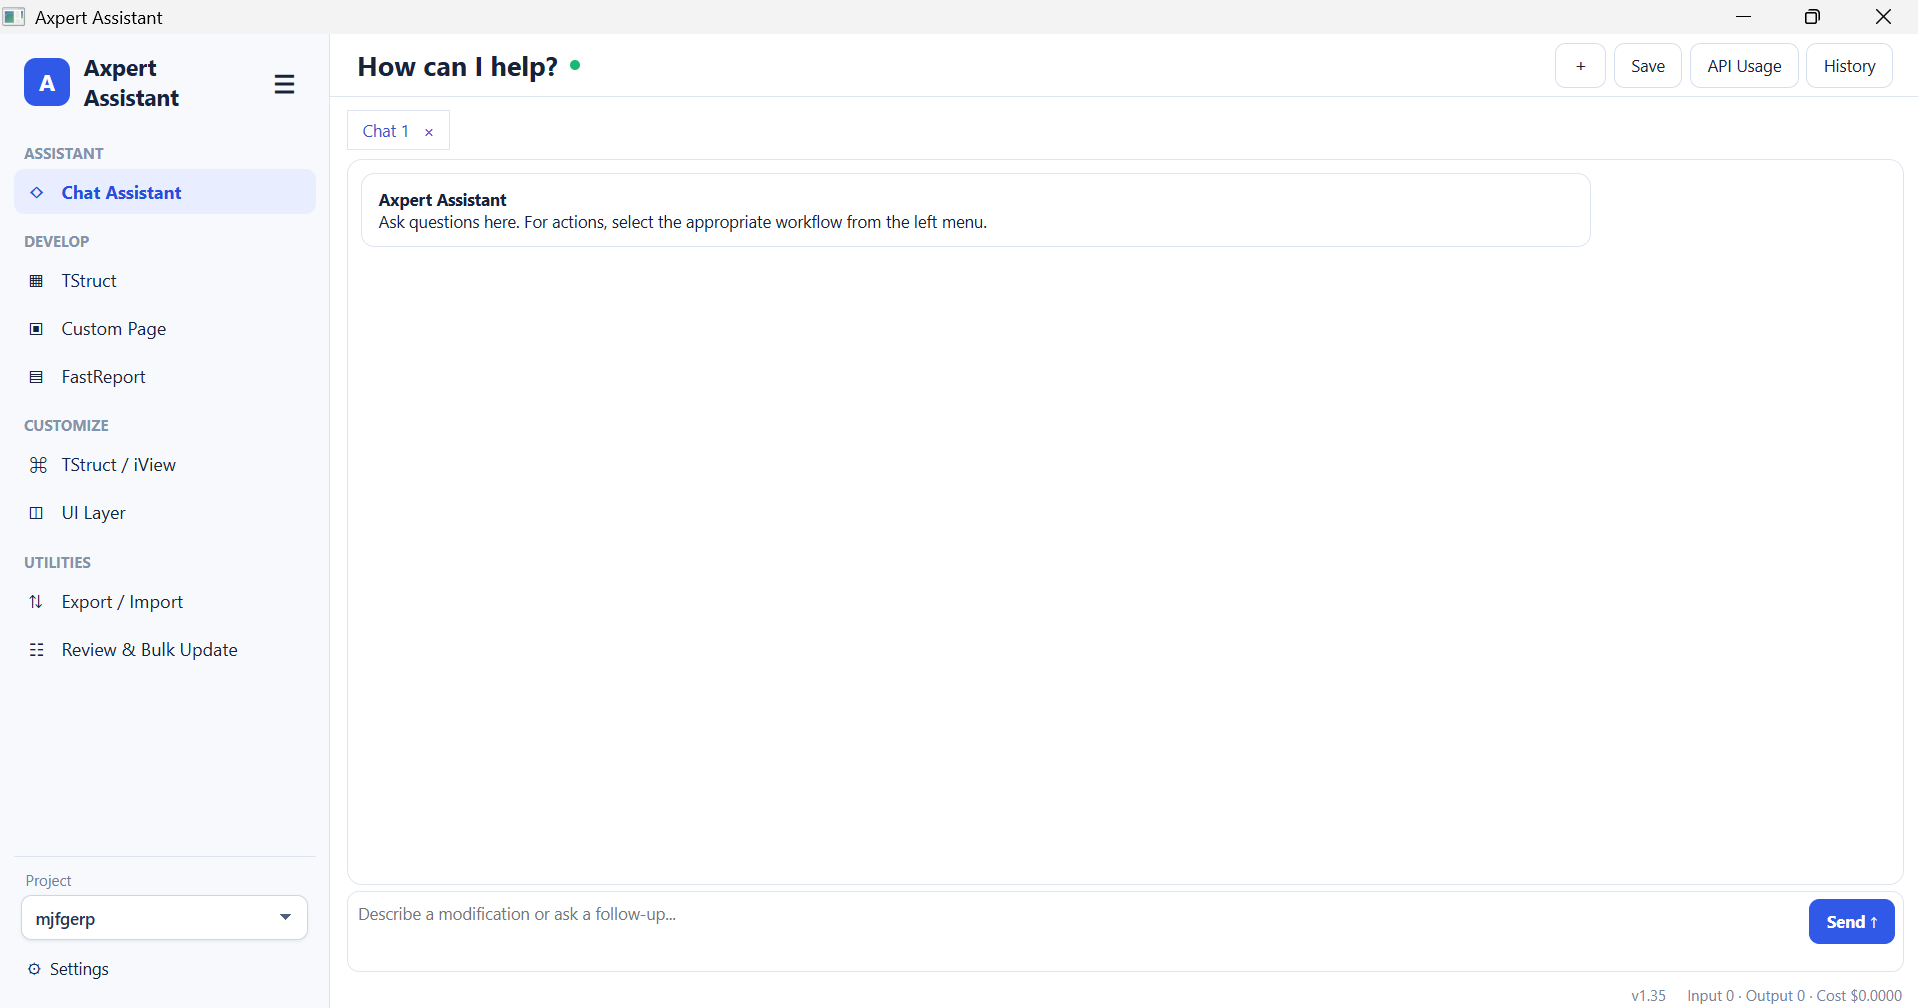
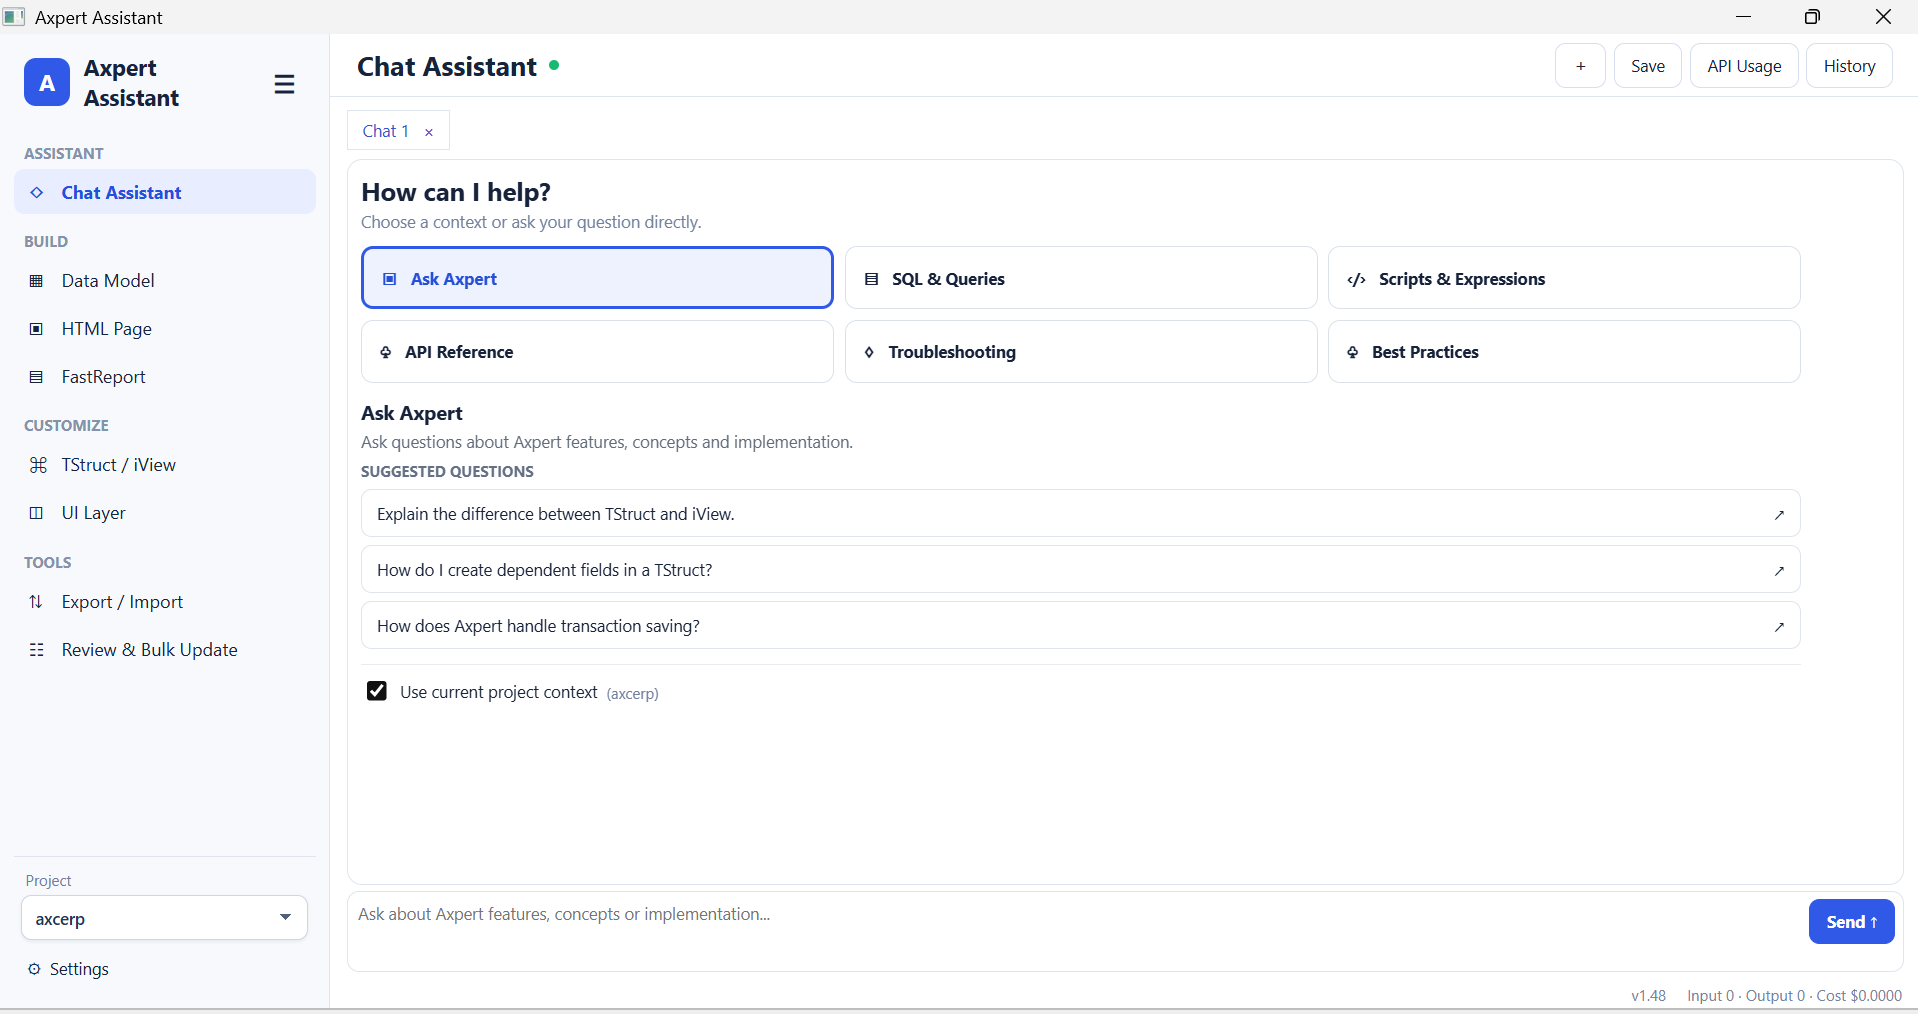
Refresh public product site
# Conflicts:
#	build/index.html
#	index.html

diff --git a/compact-v2.css b/compact-v2.css
@@ -1,3 +1,21 @@
 /* Cache-busted, viewport-first layout */
 .compact-site .site-header{height:50px;padding-left:max(20px,calc((100vw - 1260px)/2));padding-right:max(20px,calc((100vw - 1260px)/2))}.compact-site .brand{font-size:14px}.compact-site .brand-mark{width:27px;height:27px;border-radius:7px}.compact-site nav{gap:18px}.compact-site nav a{font-size:13px}.compact-site .nav-cta{padding:6px 10px}.compact-site .button{padding:9px 13px;font-size:12px}.compact-site .eyebrow{font-size:10px;margin-bottom:7px}.compact-site .page-hero{min-height:calc(100vh - 22px);height:calc(100vh - 22px);padding:68px max(28px,calc((100vw - 1260px)/2)) 18px}.compact-site .home-hero{gap:30px;grid-template-columns:.92fr 1.08fr}.compact-site .hero-copy h1,.compact-site .inner-hero h1,.compact-site .contact-intro h1{font-size:clamp(34px,3.25vw,46px);line-height:1.02}.compact-site .hero-lead{font-size:13px;line-height:1.45;margin:13px 0}.compact-site .hero-actions{gap:8px}.compact-site .home-products{gap:12px}.compact-site .home-products>a{min-height:230px;height:230px;padding:17px;border-radius:13px}.compact-site .product-code{width:38px;height:38px;border-radius:9px;font-size:12px}.compact-site .home-products small{margin-top:14px;font-size:9px}.compact-site .home-products h2{font-size:18px;margin:6px 0}.compact-site .home-products p{font-size:12px;line-height:1.38;margin:5px 0}.compact-site .home-products b{font-size:11px}.compact-site .inner-hero{height:55vh;min-height:390px;padding:65px max(28px,calc((100vw - 1260px)/2)) 14px;gap:26px}.compact-site .inner-hero>div:first-child>p:not(.eyebrow){font-size:13px;line-height:1.4;margin:10px 0 14px}.compact-site .product-shot{border-radius:11px}.compact-site .product-shot img{max-height:245px}.compact-site .product-shot figcaption{padding:7px 11px;font-size:11px}.compact-site .ops-tabs{padding:7px}.compact-site .ops-tabs button{padding:6px 9px;font-size:11px}.compact-site .ops-screen{padding:11px}.compact-site .ops-summary h2{font-size:18px;margin:3px 0}.compact-site .ops-summary p{font-size:11px;line-height:1.35}.compact-site .ops-shot{margin-top:7px}.compact-site .ops-shot img{max-height:200px}.compact-site .compact-content{min-height:calc(45vh - 22px);padding:14px max(28px,calc((100vw - 1260px)/2)) 12px}.compact-site .feature-row{gap:10px}.compact-site .feature-row article{padding:13px;border-radius:10px}.compact-site .feature-row span{font-size:11px}.compact-site .feature-row h2{font-size:16px;margin:8px 0 4px}.compact-site .feature-row p{font-size:11px;line-height:1.35}.compact-site .curiosity-card{margin-top:9px;padding:12px 16px;border-radius:10px}.compact-site .curiosity-card h2{font-size:17px}.compact-site .contact-page{height:calc(100vh - 22px);min-height:calc(100vh - 22px);padding:65px max(28px,calc((100vw - 1050px)/2)) 18px;gap:38px}.compact-site .contact-intro p:not(.eyebrow){font-size:13px;line-height:1.45}.compact-site .contact-card{padding:16px;border-radius:12px}.compact-site .company-name{font-size:11px;margin-bottom:10px}.compact-site .contact-card>a{gap:4px;padding:11px 0}.compact-site .contact-card small,.compact-site .contact-card span{font-size:10px}.compact-site .contact-card strong{font-size:22px}footer.compact-footer{box-sizing:border-box!important;min-height:22px!important;height:22px!important;padding:0 12px!important;display:flex!important;align-items:center!important;justify-content:center!important}footer.compact-footer p{margin:0!important;font-size:9px!important;line-height:1!important;color:#8191a5!important}
 @media(max-width:900px){.compact-site .site-header{height:58px}.compact-site .page-hero,.compact-site .inner-hero,.compact-site .contact-page{height:auto;min-height:auto;padding-top:82px;padding-bottom:28px}.compact-site .home-hero,.compact-site .inner-hero,.compact-site .contact-page{grid-template-columns:1fr}.compact-site .home-products{margin-top:12px}.compact-site .home-products>a{height:auto;min-height:215px}.compact-site .compact-content{min-height:auto;padding:24px 20px}.compact-site .product-shot img,.compact-site .ops-shot img{max-height:none}footer.compact-footer{height:26px!important;min-height:26px!important}}
+
+/* 1.48 public-site refresh: light theme, richer product highlights, one product image */
+body.compact-site{background:#fff;color:var(--ink)}
+.compact-site .site-header{background:rgba(255,255,255,.96);color:var(--ink);border-bottom:1px solid var(--line);box-shadow:0 6px 22px rgba(16,42,68,.06)}
+.compact-site .site-header nav a{color:#52647a}.compact-site .site-header nav a:hover,.compact-site .site-header nav a.active{color:var(--blue)}
+.compact-site .nav-cta{color:var(--blue)!important;border-color:#b9c8ee!important;background:#f6f8ff}.compact-site .nav-toggle{color:var(--ink)}
+.compact-site .page-hero{background:linear-gradient(145deg,#fff 0%,#f4f7ff 58%,#eefafa 100%);color:var(--ink)}
+.compact-site .hero-copy h1 span{color:#526b95}.compact-site .hero-lead{color:var(--muted)}
+.compact-site .home-products>a{background:#fff;color:var(--ink);border-color:var(--line);box-shadow:0 18px 55px rgba(16,42,68,.09)}
+.compact-site .home-products>a:hover{border-color:#7896ec;box-shadow:0 22px 65px rgba(49,91,234,.14)}
+.compact-site .home-products small{color:var(--blue)}.compact-site .home-products p{color:var(--muted)}.compact-site .home-products b{color:var(--blue)}
+.compact-site .ops-hero{background:linear-gradient(135deg,#f4fbff,#fff)}.compact-site .ops-hero>div:first-child>p:not(.eyebrow){color:var(--muted)}
+.compact-site .ops-product-shot{margin:0}.compact-site .product-shot img{max-height:380px;object-fit:contain;object-position:top}.compact-site .compact-content{background:#fff}
+.compact-site .feature-grid{grid-template-columns:repeat(3,1fr)}.compact-site .feature-grid article{min-height:165px}.compact-site .feature-grid h2{margin-top:10px}
+.compact-site .curiosity-card{background:linear-gradient(120deg,#edf3ff,#eefafa);border:1px solid #d7e2f2}
+.compact-site footer.compact-footer{background:#f7f9fc;border-top:1px solid var(--line)}
+@media(max-width:900px){.compact-site .feature-grid{grid-template-columns:1fr 1fr}.compact-site nav.open{background:#fff;border-bottom:1px solid var(--line);box-shadow:0 12px 25px rgba(16,42,68,.1)}}
+@media(max-width:620px){.compact-site .feature-grid{grid-template-columns:1fr}}

diff --git a/operate/index.html b/operate/index.html
@@ -1,4 +1,4 @@
 <!doctype html><html lang="en"><head><meta charset="utf-8"><meta name="viewport" content="width=device-width,initial-scale=1"><meta name="description" content="Operate and maintain Axpert infrastructure with AxpertOps."><title>Operate &amp; Maintain with AxpertOps | Axpert DevOps</title><link rel="stylesheet" href="../styles.css"><link rel="stylesheet" href="../showcase.css"><link rel="stylesheet" href="../compact.css"><link rel="stylesheet" href="../compact-v2.css"></head><body class="compact-site dark-page" data-assets="../assets/screenshots/">
 <header class="site-header"><a class="brand" href="../"><span class="brand-mark">AX</span><span>AXCORD</span></a><button class="nav-toggle" aria-expanded="false" aria-controls="nav">Menu</button><nav id="nav"><a href="../">Home</a><a href="../build/">Build</a><a class="active" href="./">Operate &amp; Maintain</a><a class="nav-cta" href="../contact/">Talk to us</a></nav></header>
-<main><section class="inner-hero ops-hero"><div class="reveal"><p class="eyebrow cyan">OPERATE &amp; MAINTAIN WITH AXPERTOPS</p><h1>See the environment.<br>Act with context.</h1><p>Bring infrastructure, application services, projects, and databases into one operational control center.</p><a class="button demo-button" href="../contact/">See a live demo</a></div><div class="ops-dashboard reveal"><div class="ops-tabs" role="tablist" aria-label="AxpertOps capabilities"><button class="is-active" data-tab="server">Server</button><button data-tab="iis">IIS</button><button data-tab="rabbit">RabbitMQ</button><button data-tab="redis">Redis</button><button data-tab="projects">Projects</button><button data-tab="database">Databases</button></div><div class="ops-screen"><div class="ops-summary"><small id="opsKicker">SERVER OVERVIEW</small><h2 id="opsTitle">Host resources at a glance</h2><p id="opsText">CPU, memory, uptime, processors, storage volumes, and memory composition across core services.</p></div><figure class="ops-shot"><img id="opsImage" src="../assets/screenshots/axpertops-server.png" alt="AxpertOps server overview"></figure></div></div></section><section class="compact-content dark-content"><div class="feature-row reveal"><article><span>01</span><h2>Observe</h2><p>See health, capacity, activity, mappings, and configuration signals without jumping between unrelated tools.</p></article><article><span>02</span><h2>Maintain</h2><p>Connect Axpert projects to the IIS pools, brokers, caches, schemas, and database sessions they depend on.</p></article><article><span>03</span><h2>Act</h2><p>Take direct operational action across approved IIS, RabbitMQ, Redis, and database controls.</p></article></div><div class="curiosity-card dark-card reveal"><div><p class="eyebrow cyan">THE SCREENSHOTS ARE ONLY THE START</p><h2>What could your team resolve from one live operational view?</h2></div><a class="button demo-button" href="../contact/">Find out in a demo</a></div></section></main>
+<main><section class="inner-hero ops-hero"><div class="reveal"><p class="eyebrow cyan">OPERATE &amp; MAINTAIN WITH AXPERTOPS</p><h1>See the environment.<br>Act with context.</h1><p>Bring infrastructure, application services, Axpert projects, and databases into one operational control center.</p><a class="button demo-button" href="../contact/">See a live demo</a></div><figure class="product-shot ops-product-shot reveal"><img src="../assets/screenshots/axpertops-server.png" alt="AxpertOps server and infrastructure overview"><figcaption>Monitor host resources, service memory, uptime, processors, and storage from a unified operational view.</figcaption></figure></section><section class="compact-content"><div class="feature-row feature-grid reveal"><article><span>01</span><h2>Server visibility</h2><p>Track CPU, memory, processors, uptime, storage volumes, and service-level resource composition.</p></article><article><span>02</span><h2>IIS operations</h2><p>Inspect sites, applications, pools, workers, active requests, recycle settings, and approved actions.</p></article><article><span>03</span><h2>RabbitMQ monitoring</h2><p>Review cluster health, queues, consumers, users, virtual hosts, permissions, and message flow.</p></article><article><span>04</span><h2>Redis management</h2><p>Discover instances and inspect health, memory, clients, persistence, authentication, and service status.</p></article><article><span>05</span><h2>Axpert project discovery</h2><p>Connect projects with their IIS mappings, schemas, database instances, and actionable configuration warnings.</p></article><article><span>06</span><h2>Database operations</h2><p>Understand sessions, SQL activity, jobs, schemas, and controlled Oracle and PostgreSQL administration.</p></article></div><div class="curiosity-card reveal"><div><p class="eyebrow cyan">ONE OPERATIONAL VIEW</p><h2>Find infrastructure issues faster and act with the Axpert application context already visible.</h2></div><a class="button demo-button" href="../contact/">Find out in a demo</a></div></section></main>
 <footer class="compact-footer"><p>© 2026 Axcord Global Private Limited</p></footer><script src="../app.js"></script></body></html>

diff --git a/build/index.html b/build/index.html
@@ -1,4 +1,4 @@
 <!doctype html><html lang="en"><head><meta charset="utf-8"><meta name="viewport" content="width=device-width,initial-scale=1"><meta name="description" content="Build and modernize Axpert solutions with Axpert Assistant."><title>Build with Axpert Assistant | Axpert DevOps</title><link rel="stylesheet" href="../styles.css"><link rel="stylesheet" href="../showcase.css"><link rel="stylesheet" href="../compact.css"><link rel="stylesheet" href="../compact-v2.css"></head><body class="compact-site">
 <header class="site-header"><a class="brand" href="../"><span class="brand-mark">AX</span><span>AXCORD</span></a><button class="nav-toggle" aria-expanded="false" aria-controls="nav">Menu</button><nav id="nav"><a href="../">Home</a><a class="active" href="./">Build</a><a href="../operate/">Operate &amp; Maintain</a><a class="nav-cta" href="../contact/">Talk to us</a></nav></header>
-<main><section class="inner-hero build-hero"><div class="reveal"><p class="eyebrow blue">BUILD WITH AXPERT ASSISTANT</p><h1>Build and Modernize Axpert Applications with AI</h1><p>Turn requirements into Axpert-ready data models, HTML5 pages, FastReports, customizations and validated deployment artifacts—all using existing project definitions.</p><a class="button primary" href="../contact/">Request a demo</a></div><figure class="product-shot reveal"><img src="../assets/screenshots/axpert-agent.png" alt="Axpert Assistant desktop application"><figcaption>Choose a project and a guided workflow for development, customization, review, or delivery.</figcaption></figure></section><section class="compact-content"><div class="feature-row reveal"><article><span>01</span><h2>Build Data Models</h2><p>Create lightweight TStruct backends for modern HTML5 forms.</p></article><article><span>02</span><h2>Modern HTML5 Pages</h2><p>Turn TStructs and iViews into responsive interfaces.</p></article><article><span>03</span><h2>FastReports</h2><p>Create and modify reports using existing transaction definitions.</p></article><article><span>04</span><h2>Customize Axpert</h2><p>Use JavaScript hooks, Developer Options and UI overrides.</p></article><article><span>05</span><h2>Review &amp; Bulk Update</h2><p>Analyze definitions and prepare controlled, approved changes.</p></article><article><span>06</span><h2>Developer Assistant</h2><p>Get help with SQL, scripts, expressions, APIs and troubleshooting.</p></article></div><div class="curiosity-card reveal"><div><p class="eyebrow blue">MORE THAN A CHAT WINDOW</p><h2>What happens when the assistant understands the Axpert project behind the request?</h2></div><a class="button primary" href="../contact/">See it in a demo</a></div></section></main>
+<main><section class="inner-hero build-hero"><div class="reveal"><p class="eyebrow blue">BUILD WITH AXPERT ASSISTANT</p><h1>Build and Modernize Axpert Applications with AI</h1><p>Turn requirements into Axpert-ready data models, HTML5 pages, FastReports, customizations, and validated deployment artifacts—all using existing project definitions.</p><a class="button primary" href="../contact/">Request a demo</a></div><figure class="product-shot reveal"><img src="../assets/screenshots/axpert-agent.png" alt="Axpert Assistant v1.48 chat and guided workflow interface"><figcaption>Ask with project context or choose a guided workflow for development, customization, review, and delivery.</figcaption></figure></section><section class="compact-content"><div class="feature-row feature-grid reveal"><article><span>01</span><h2>AI-generated data models</h2><p>Describe a requirement in plain language and generate ordered TStruct DCs, fields, tables, keys, and constraints.</p></article><article><span>02</span><h2>Modern HTML pages</h2><p>Create responsive Axpert pages, supporting APIs, registration metadata, and deployment-ready assets.</p></article><article><span>03</span><h2>FastReport generation</h2><p>Build or refine linked reports with standard, thermal, label, and card formats plus ready-to-use prompt examples.</p></article><article><span>04</span><h2>Project-aware assistance</h2><p>Ask about Axpert concepts, SQL, scripts, APIs, troubleshooting, and best practices using the selected project context.</p></article><article><span>05</span><h2>Customize and modernize</h2><p>Work with existing TStructs, iViews, UI layers, expressions, actions, hooks, and supported extension points.</p></article><article><span>06</span><h2>Review and iterate</h2><p>Validate definitions, package changes, and continue refining completed results without losing the working context.</p></article></div><div class="curiosity-card reveal"><div><p class="eyebrow blue">MORE THAN A CHAT WINDOW</p><h2>Give every Axpert developer a project-aware assistant for building, reviewing, and delivering solutions.</h2></div><a class="button primary" href="../contact/">See it in a demo</a></div></section></main>
 <footer class="compact-footer"><p>© 2026 Axcord Global Private Limited</p></footer><script src="../app.js"></script></body></html>

diff --git a/index.html b/index.html
@@ -1,4 +1,4 @@
 <!doctype html><html lang="en"><head><meta charset="utf-8"><meta name="viewport" content="width=device-width,initial-scale=1"><meta name="description" content="Axpert DevOps provides AI-powered development and operational control for Axpert applications."><title>Axpert DevOps Suite</title><link rel="stylesheet" href="styles.css"><link rel="stylesheet" href="showcase.css"><link rel="stylesheet" href="compact.css"><link rel="stylesheet" href="compact-v2.css"></head><body class="compact-site">
 <header class="site-header"><a class="brand" href="./" aria-label="Axpert DevOps home"><span class="brand-mark">AX</span><span>AXCORD</span></a><button class="nav-toggle" aria-expanded="false" aria-controls="nav">Menu</button><nav id="nav" aria-label="Primary navigation"><a class="active" href="./">Home</a><a href="build/">Build</a><a href="operate/">Operate &amp; Maintain</a><a class="nav-cta" href="contact/">Talk to us</a></nav></header>
-<main><section class="page-hero home-hero"><div class="hero-copy reveal"><p class="eyebrow">AXPERT DEVOPS SUITE</p><h1>Build with intelligence.<br><span>Operate &amp; maintain with confidence.</span></h1><p class="hero-lead"><strong>Axpert DevOps — AI-powered development and operational control for Axpert applications.</strong><br><br>Accelerate Axpert development with project-aware AI assistance. Build modern HTML5 interfaces, generate backend data models, customize existing applications, review definitions, and troubleshoot issues.<br><br>Monitor and manage your Axpert infrastructure through a unified operational workspace covering servers, IIS, RabbitMQ, Redis, and databases.</p><div class="hero-actions"><a class="button primary" href="build/">Explore Axpert Assistant</a><a class="button secondary" href="operate/">Explore AxpertOps</a></div></div><div class="home-products reveal" aria-label="Axpert Assistant and AxpertOps"><a href="build/"><span class="product-code">AI</span><small>BUILD</small><h2>Axpert Assistant</h2><p>Create, modernize, review, and package Axpert solutions with guided, project-aware workflows.</p><b>See how it helps →</b></a><a href="operate/"><span class="product-code ops-code">OPS</span><small>OPERATE &amp; MAINTAIN</small><h2>AxpertOps</h2><p>See and act across servers, IIS, RabbitMQ, Redis, projects, and databases from one control center.</p><b>Explore the control center →</b></a></div></section></main>
+<main><section class="page-hero home-hero"><div class="hero-copy reveal"><p class="eyebrow">AXPERT DEVOPS SUITE</p><h1>Build with intelligence.<br><span>Operate &amp; maintain with confidence.</span></h1><p class="hero-lead"><strong>Axpert DevOps — AI-powered development and operational control for Axpert applications.</strong><br><br>Accelerate Axpert development with project-aware AI assistance. Build modern HTML5 interfaces, generate backend data models, customize existing applications, review definitions, and troubleshoot issues.<br><br>Monitor and manage your Axpert infrastructure through a unified operational workspace covering servers, IIS, RabbitMQ, Redis, and databases.</p></div><div class="home-products reveal" aria-label="Axpert Assistant and AxpertOps"><a href="build/"><span class="product-code">AI</span><small>BUILD</small><h2>Axpert Assistant</h2><p>Create, modernize, review, and package Axpert solutions with guided, project-aware workflows.</p><b>See how it helps →</b></a><a href="operate/"><span class="product-code ops-code">OPS</span><small>OPERATE &amp; MAINTAIN</small><h2>AxpertOps</h2><p>See and act across servers, IIS, RabbitMQ, Redis, projects, and databases from one control center.</p><b>Explore the control center →</b></a></div></section></main>
 <footer class="compact-footer"><p>© 2026 Axcord Global Private Limited</p></footer><script src="app.js"></script></body></html>
